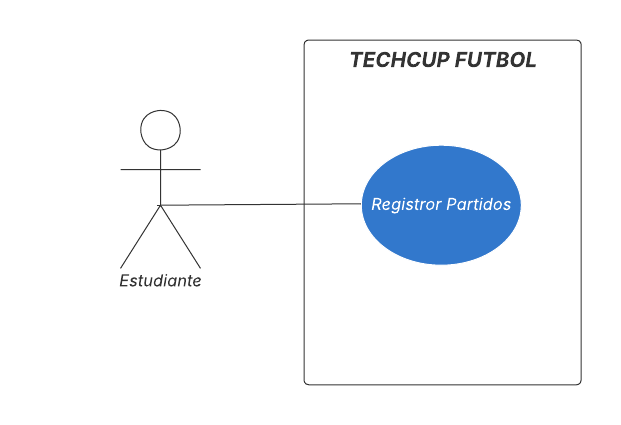
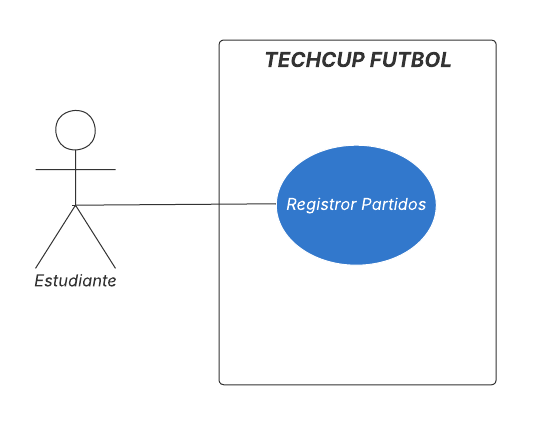
docs: correction case diagrams for RF09, RF10 and RF11

diff --git a/requirements/requirement.md b/requirements/requirement.md
@@ -121,7 +121,7 @@ El sistema de TECHCUP FUTBOL debe tener:
 | **Precondiciones** | Para que el sistema cumpla con este requerimiento, TECHCUP-FUTBOL debe tener previamente programado el partido                                                                                                                            |
 | **Actor** | Organizador                                                                                                                                                                                                                               |
 | **Flujo principal** | 1. El organizador accede al módulo de partidos.<br>2. Selecciona el partido correspondiente.<br>3. Ingresa el marcador final.<br>4. Registra estadísticas (goleadores y tarjetas).<br>5. El sistema actualiza la información del partido. |
-| **Diagrama de caso de uso** | ![Diagrama Registrar Partido](docs/uml/casosDeUso/rf09RegistrarPartido.png)                                                                                                                                                               |
+| **Diagrama de caso de uso** | ![Diagrama Registrar Partido](../uml/casosDeUso/rf09RegistrarPartido.png))                                                                                                                                                               |
 | **Poscondiciones** | Se permite a todos los actores la visualizacion correctamenta de la información del partido                                                                                                                                               |
 
 ### 2.10 Requerimiento Funcional 10
@@ -134,7 +134,7 @@ El sistema de TECHCUP FUTBOL debe tener:
 | **Precondiciones** | Para que el sistema cumpla con este requerimiento, TECHCUP-FUTBOL debe tener previamente el registro de los equipos que disputarán el partido y canchas disponibles |
 | **Actor** | Árbitro |
 | **Flujo principal** | 1. El árbitro inicia sesión.<br>2. Accede a la sección de partidos asignados.<br>3. El sistema muestra los detalles correspondientes.|
-| **Diagrama de caso de uso** | ![Diagrama Consultar Partidos](docs/uml/casosDeUso/rf10ConsultarPartidos.png)|
+| **Diagrama de caso de uso** | ![Diagrama Consultar Partidos](../uml/casosDeUso/rf10ConsultarPartidos.png)|
 | **Poscondiciones** | *Se espera como resultado que el árbitro visualiza correctamente la información del partido asignado |
 
 ### 2.11 Requerimiento Funcional 11
@@ -147,7 +147,7 @@ El sistema de TECHCUP FUTBOL debe tener:
 | **Precondiciones** | *Para que el sistema cumpla con este requerimiento, TECHCUP-FUTBOL debe tener previamente registro de partidos                                                                                                                                                        |
 | **Actor** | Organizador                                                                                                                                                                                                                                                           |
 | **Flujo principal** | 1. Se registra o actualiza el resultado de un partido.<br>2. El sistema valida la información ingresada.<br>3. El sistema recalcula las estadísticas de los equipos involucrados.<br>4. El sistema actualiza la tabla de posiciones del torneo.                       |
-| **Diagrama de caso de uso** | ![Diagrama Generar Tabla Posiciones](docs/uml/casosDeUso/rf11GenerarTablaPosiciones.png)                                                                                                                                                                              |
+| **Diagrama de caso de uso** | ![Diagrama Generar Tabla Posiciones](../uml/casosDeUso/rf11GenerarTablaPosiciones.png)                                                                                                                                                                              |
 | **Poscondiciones** | *Se espera como resultado la tabla de posiciones queda actualizada automáticamente y disponible para consulta                                                                                                                                                         |
 
 ### 2.12 Requerimiento Funcional 12
